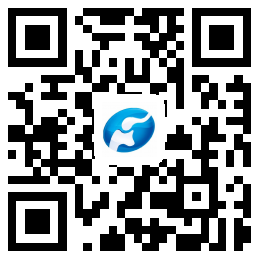
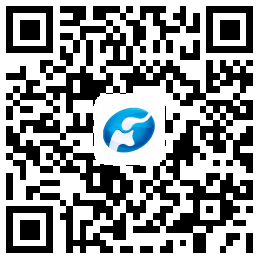
修改--公众号二维码页面

diff --git a/src/index.html b/src/index.html
@@ -154,7 +154,7 @@
 										<li>
 											<a href="http://www.hntv9hr.com/">河南广播电视台打工直通车项目－官网</a> (手机+PC)
 										</li>
-											<img src="./qrcode_img/dgztc_gzh.png" alt="" class="dgztc_gw" />
+											<img src="./qrcode_img/dgztc_gw.png" alt="" class="dgztc_gw" />
 									</ul>
 								</div>
 							</div>
@@ -205,7 +205,8 @@
 								<div class="item-bd">
 									<ul>
 										<li>
-											<a href="http://m.dgztc.com/dist/#/jobList">打工直通车第一就业-公众号(找工作项目)</a> (手机端)
+											<a href="http://m.dgztc.com/dist/#/jobList">打工直通车第一就业-公众号(找工作项目入口)</a> (手机端)
+											<!--<p>账号: 18237115038  密码: 123456</p>-->
 										</li>
 											<img src="./qrcode_img/dgztc_job.png" alt="" class="dgztc_gw" />
 										<li>
